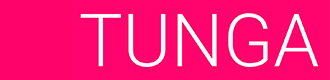
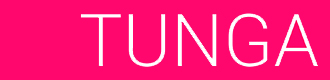
Updated primary color

diff --git a/src/css/style.less b/src/css/style.less
@@ -1,4 +1,4 @@
-@primary: #f41152;
+@primary: #ee1f54;
 @primary-dark: #ce134f;
 @secondary: #0078bd;
 @primary-text: #333;
